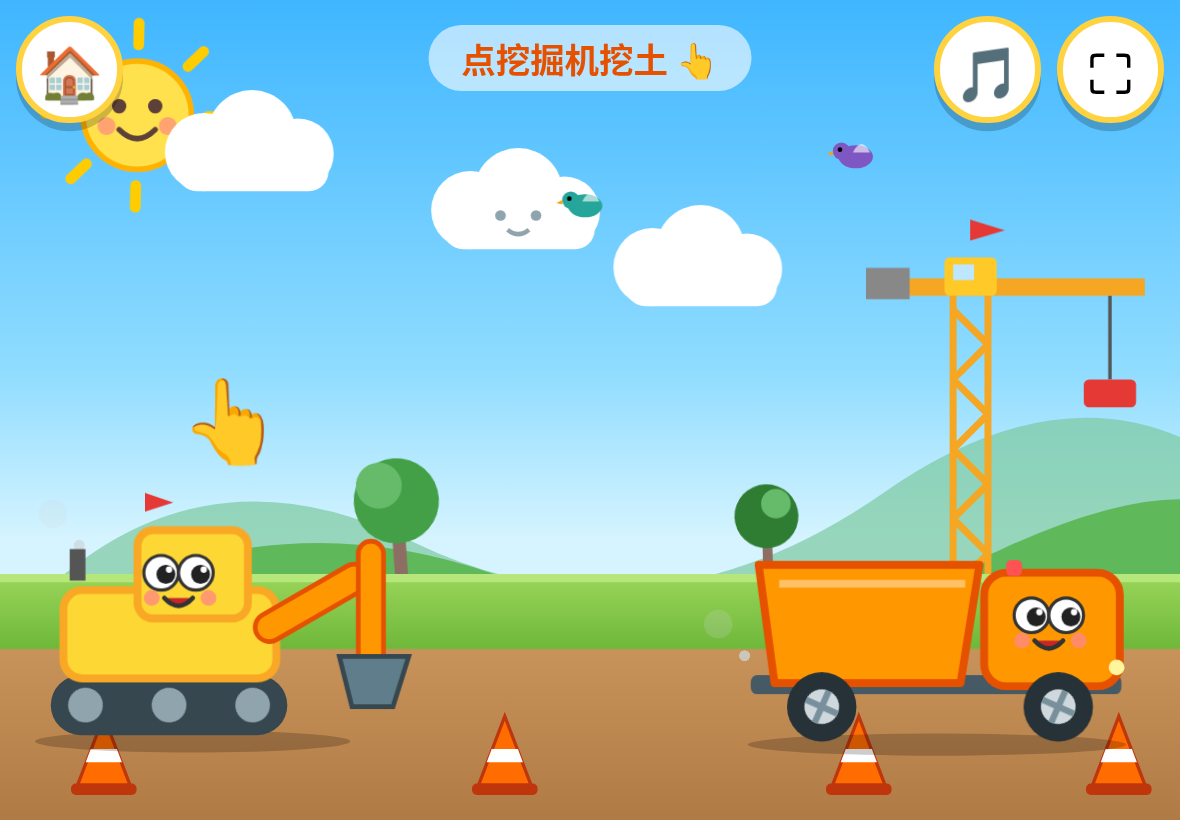
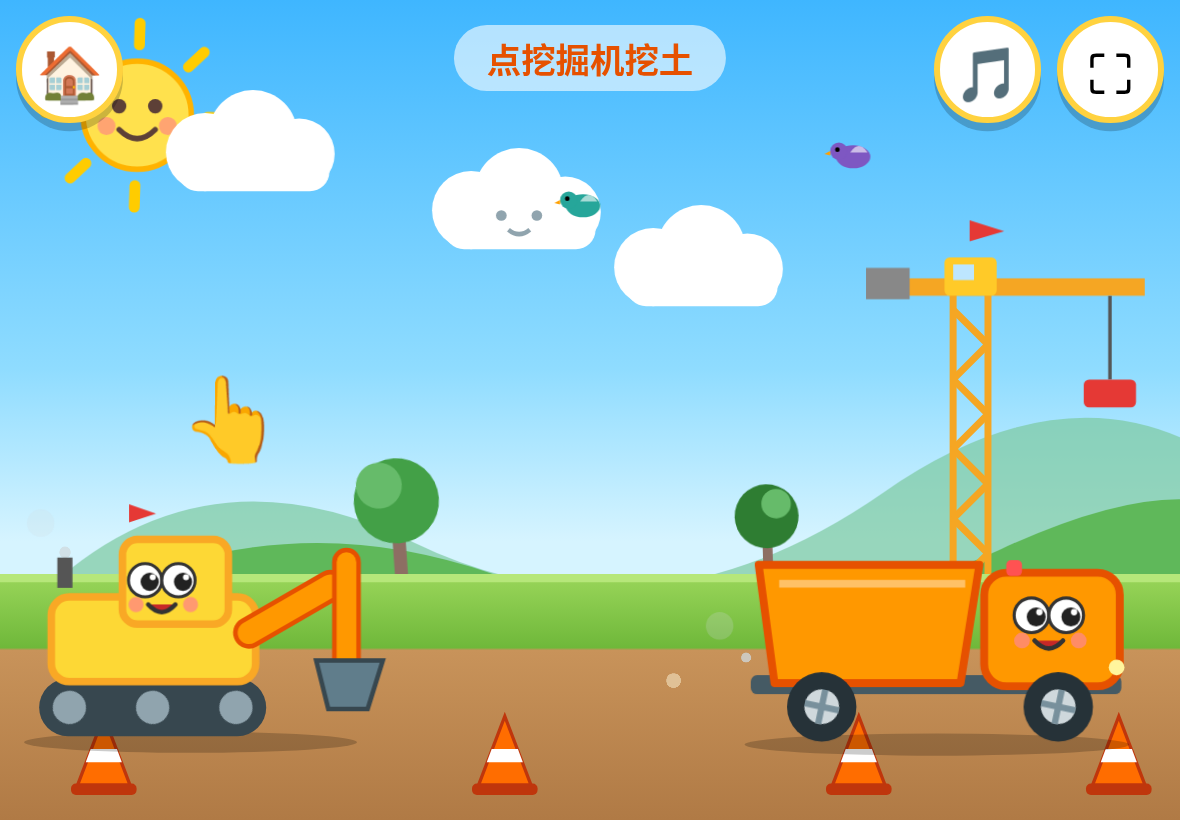
12 vehicles, voice guidance, praise, garage, difficulty ramp

diff --git a/index.html b/index.html
@@ -55,7 +55,7 @@ svg{overflow:visible}.tap{cursor:pointer;pointer-events:auto}
 .dance{animation:dance .5s ease-in-out infinite alternate}@keyframes dance{from{transform:translateY(0) rotate(-3deg)}to{transform:translateY(-2vmin) rotate(3deg)}}
 .hint{animation:hint 1s ease-in-out infinite}@keyframes hint{50%{transform:translateY(-2vmin) scale(1.05)}}
 /* game1 */
-#ex{position:absolute;left:3vw;bottom:8vh;width:50vmin}#dt{position:absolute;right:3vw;bottom:8vh;width:50vmin}
+#ex{position:absolute;left:2vw;bottom:8vh;width:48vmin}#dt{position:absolute;right:3vw;bottom:8vh;width:50vmin}
 #arm{transform-origin:150px 90px;transition:transform .35s}.dig #arm{transform:rotate(28deg)}
 #hand{position:absolute;font-size:10vmin;left:22vmin;bottom:42vh;animation:hint 1s infinite;pointer-events:none}
 /* game2 */
@@ -76,6 +76,23 @@ svg{overflow:visible}.tap{cursor:pointer;pointer-events:auto}
 #bigtruck{position:absolute;left:50%;top:50%;width:46vmin;margin:-20vmin 0 0 -23vmin;transform:scale(0);transition:transform .4s cubic-bezier(.3,1.6,.6,1)}
 #bigtruck.show{transform:scale(1)}#bigtruck svg{width:100%;animation:dance .3s ease-in-out infinite alternate}
 #stk{position:absolute;left:50%;top:18%;font-size:18vmin;transform:translate(-50%,-50%) scale(0);transition:transform .4s cubic-bezier(.3,1.6,.6,1)}#stk.show{transform:translate(-50%,-50%) scale(1) rotate(360deg)}
+
+.big{width:30vmin;height:30vmin}#btns{gap:3vmin}
+.big:nth-child(4){animation-delay:1.2s}
+#gar{position:absolute;top:13vh;left:3vw;right:3vw;bottom:2vh;display:grid;grid-template-columns:repeat(auto-fill,minmax(26vmin,1fr));gap:2.5vmin;overflow:hidden;pointer-events:auto}
+.vc{background:#fffd;border-radius:4vmin;border:.8vmin solid #ffd23f;box-shadow:0 1vmin 0 #0003;display:flex;align-items:center;justify-content:center;padding:1vmin}
+.vc svg{width:100%;height:100%;max-height:22vmin}.vc:active{transform:scale(.94)}
+.act{transform-box:view-box}
+.go .act{animation:var(--a) 1.2s ease-in-out}
+.go{animation:dance .3s ease-in-out 4 alternate}
+.drum{transform-box:fill-box;transform-origin:center;animation:spin 3s linear infinite}.go .drum{animation-duration:.4s}
+.spray{opacity:0}.go .spray{animation:spr 1.2s}@keyframes spr{20%,80%{opacity:1}}
+.siren{animation:blinkc .5s steps(1) infinite}@keyframes blinkc{50%{fill:#2196f3}}
+@keyframes tip{50%{transform:rotate(-32deg)}}@keyframes digA{50%{transform:rotate(28deg)}}@keyframes push{50%{transform:translateX(22px)}}
+@keyframes lift{50%{transform:rotate(-22deg)}}@keyframes up{50%{transform:translateY(-45px)}}@keyframes drill{50%{transform:translateY(28px)}}
+@keyframes scoop{50%{transform:rotate(-30deg)}}@keyframes rollA{50%{transform:translateX(18px)}}
+#nm{position:fixed;left:50%;bottom:4vh;transform:translateX(-50%) scale(0);background:#fff;border-radius:5vmin;padding:1.5vmin 5vmin;font-size:7vmin;font-weight:900;color:#e65100;z-index:35;transition:transform .3s cubic-bezier(.3,1.6,.6,1);pointer-events:none}#nm.show{transform:translateX(-50%) scale(1)}
+#rocks{width:46vw}.rock{width:15vmin;height:13vmin}
 </style></head><body>
 <div id="bg">
  <svg class="abs hill" style="opacity:.7;animation-duration:90s" viewBox="0 0 2200 300" preserveAspectRatio="none"><path d="M0 300 Q150 40 350 180 T750 120 T1100 160 T1450 60 T1800 170 T2200 120V300z" fill="#7cc9a0"/></svg>
@@ -99,75 +116,115 @@ svg{overflow:visible}.tap{cursor:pointer;pointer-events:auto}
 <div id="home" class="rb tap">🏠</div>
 <div id="topbar"><div id="mute" class="rb tap">🎵</div><div id="fs" class="rb tap">⛶</div></div>
 <div id="menu" class="scr on"><div id="drivers"></div><div id="title">🚧 宝宝工程车 🚧</div>
- <div id="btns"><div class="big" style="background:linear-gradient(#ffb74d,#f57c00)" data-g="g1"><svg viewBox="-10 -10 280 190" id="m1"></svg>挖土装车</div>
- <div class="big" style="background:linear-gradient(#64b5f6,#1e88e5)" data-g="g2"><svg viewBox="-10 -10 280 190" id="m2"></svg>颜色回家</div>
- <div class="big" style="background:linear-gradient(#81c784,#2e7d32)" data-g="g3"><svg viewBox="-10 -10 280 190" id="m3"></svg>数石头 1-3</div></div>
+ <div id="btns"><div class="big" style="background:linear-gradient(#ffb74d,#f57c00)" data-g="g1"><svg viewBox="-10 -10 290 190" id="m1"></svg>挖土装车</div>
+ <div class="big" style="background:linear-gradient(#64b5f6,#1e88e5)" data-g="g2"><svg viewBox="-10 -10 290 190" id="m2"></svg>颜色回家</div>
+ <div class="big" style="background:linear-gradient(#81c784,#2e7d32)" data-g="g3"><svg viewBox="-10 -10 290 190" id="m3"></svg>数石头</div>
+ <div class="big" style="background:linear-gradient(#f06292,#ad1457)" data-g="g4"><svg viewBox="-10 -70 290 250" id="m4"></svg>工程车车库</div></div>
  <div id="stickers"></div></div>
-<div id="g1" class="scr"><div class="lbl">点挖掘机挖土 👆</div><div id="hand">👆</div><svg id="ex" class="tap" viewBox="0 0 260 170"></svg><svg id="dt" viewBox="0 0 260 170"></svg></div>
+<div id="g1" class="scr"><div class="lbl">点挖掘机挖土</div><div id="hand">👆</div><svg id="ex" class="tap" viewBox="0 0 260 170"></svg><svg id="dt" viewBox="0 0 260 170"></svg></div>
 <div id="g2" class="scr"><div class="lbl">把车送回同色车库</div><div id="garages"></div><svg id="ctruck" class="hint tap" viewBox="0 0 260 170"></svg></div>
 <div id="g3" class="scr"><div class="lbl">把石头装上车</div><div id="num"></div><div id="rocks"></div><svg id="ctr" viewBox="0 0 260 170"></svg></div>
+<div id="g4" class="scr"><div class="lbl">点一点，认识工程车</div><div id="gar"></div></div>
+<div id="nm"></div>
 <div id="cel"><div id="bigtruck"></div><div id="stk"></div></div>
 <script>
-const $=s=>document.querySelector(s),R=Math.random;
-function shade(c){return {'#e53935':'#b71c1c','#fdd835':'#f9a825','#1e88e5':'#0d47a1','#43a047':'#1b5e20','#ff9800':'#e65100','#ab47bc':'#6a1b9a'}[c]||'#0005'}
+const $=s=>document.querySelector(s),R=Math.random,pick=a=>a[Math.floor(R()*a.length)];
+const DK={'#e53935':'#b71c1c','#fdd835':'#f9a825','#1e88e5':'#0d47a1','#43a047':'#1b5e20','#ff9800':'#e65100','#ab47bc':'#6a1b9a','#00acc1':'#006064','#d32f2f':'#7f0000'};const shade=c=>DK[c]||'#0005';
 function face(x,y){return `<g><circle cx="${x}" cy="${y}" r="11" fill="#fff" stroke="#333" stroke-width="2"/><circle cx="${x+22}" cy="${y}" r="11" fill="#fff" stroke="#333" stroke-width="2"/><g class="lid"><circle cx="${x+3}" cy="${y+1}" r="6" fill="#222"/><circle cx="${x+25}" cy="${y+1}" r="6" fill="#222"/><circle cx="${x+5}" cy="${y-2}" r="2" fill="#fff"/><circle cx="${x+27}" cy="${y-2}" r="2" fill="#fff"/></g><circle cx="${x-6}" cy="${y+16}" r="5" fill="#ff8a80" opacity=".8"/><circle cx="${x+30}" cy="${y+16}" r="5" fill="#ff8a80" opacity=".8"/><path d="M${x+2} ${y+16}q9 10 18 0" stroke="#333" stroke-width="3" fill="#c62828" stroke-linecap="round"/></g>`}
-function wheel(cx){return `<circle cx="${cx}" cy="140" r="22" fill="#263238"/><g class="wh"><circle cx="${cx}" cy="140" r="11" fill="#cfd8dc"/><rect x="${cx-2}" y="129" width="4" height="22" fill="#78909c"/><rect x="${cx-11}" y="138" width="22" height="4" fill="#78909c"/></g>`}
+function wheel(cx,r=22){return `<circle cx="${cx}" cy="140" r="${r}" fill="#263238"/><g class="wh"><circle cx="${cx}" cy="140" r="${r/2}" fill="#cfd8dc"/><rect x="${cx-2}" y="${140-r/2}" width="4" height="${r}" fill="#78909c"/><rect x="${cx-r/2}" y="138" width="${r}" height="4" fill="#78909c"/></g>`}
 const puff=(x,y)=>`<circle class="puff" cx="${x}" cy="${y}" r="7" fill="#cfd8dc"/><circle class="puff puff2" cx="${x}" cy="${y}" r="7" fill="#cfd8dc"/>`;
-function truck(c,load){return `<ellipse cx="128" cy="164" rx="120" ry="7" fill="#0003"/>${puff(8,110)}<rect x="10" y="120" width="235" height="12" rx="4" fill="#455a64"/><path d="M15 50h140l-12 75H25z" fill="${c}" stroke="${shade(c)}" stroke-width="5" stroke-linejoin="round"/><path d="M28 62h118" stroke="#fff6" stroke-width="5"/>${load||''}<rect x="158" y="55" width="86" height="72" rx="14" fill="${c}" stroke="${shade(c)}" stroke-width="5"/><rect x="172" y="47" width="10" height="10" rx="3" fill="#ff5252"/>${face(188,82)}<circle cx="242" cy="115" r="5" fill="#fff59d"/>${wheel(55)}${wheel(205)}`}
-function excav(){return `<ellipse cx="100" cy="162" rx="100" ry="7" fill="#0003"/><rect x="10" y="120" width="150" height="38" rx="19" fill="#37474f"/><g class="wh"><circle cx="32" cy="139" r="11" fill="#90a4ae"/></g><g class="wh"><circle cx="85" cy="139" r="11" fill="#90a4ae"/></g><g class="wh"><circle cx="138" cy="139" r="11" fill="#90a4ae"/></g>${puff(30,40)}<rect x="22" y="40" width="10" height="20" fill="#555"/><rect x="18" y="66" width="135" height="56" rx="12" fill="#fdd835" stroke="#f9a825" stroke-width="5"/><rect x="65" y="28" width="70" height="56" rx="10" fill="#fdd835" stroke="#f9a825" stroke-width="5"/>${face(80,55)}<polygon class="flag" points="70,28 70,4 88,10 70,16" fill="#e53935"/>
- <g id="arm"><rect x="140" y="80" width="80" height="18" rx="9" fill="#ff9800" stroke="#e65100" stroke-width="3" transform="rotate(-30 150 90)"/><rect x="205" y="35" width="16" height="80" rx="8" fill="#ff9800" stroke="#e65100" stroke-width="3"/><path d="M193 108h44l-10 32h-26z" fill="#607d8b" stroke="#37474f" stroke-width="3"/><ellipse id="scoop" cx="215" cy="108" rx="18" ry="8" fill="#8d5524" opacity="0"/></g>`}
-const rockSvg=`<svg class="rock tap hint" viewBox="0 0 100 80"><path d="M8 72L18 25 50 6 86 20 96 72z" fill="#a1887f" stroke="#6d4c41" stroke-width="5" stroke-linejoin="round"/><circle cx="40" cy="42" r="4" fill="#333"/><circle cx="62" cy="42" r="4" fill="#333"/><path d="M42 54q9 7 18 0" stroke="#333" stroke-width="3" fill="none"/></svg>`;
-/* ---------- audio ---------- */
+const track=(x,w)=>`<rect x="${x}" y="120" width="${w}" height="38" rx="19" fill="#37474f"/>${[0,1,2].map(i=>`<g class="wh"><circle cx="${x+20+i*(w-40)/2}" cy="139" r="11" fill="#90a4ae"/></g>`).join('')}`;
+const cab=(c,x=158,y=55)=>`<rect x="${x}" y="${y}" width="86" height="72" rx="14" fill="${c}" stroke="${shade(c)}" stroke-width="5"/><rect x="${x+14}" y="${y-8}" width="10" height="10" rx="3" fill="#ff5252"/>${face(x+30,y+27)}<circle cx="${x+84}" cy="${y+60}" r="5" fill="#fff59d"/>`;
+const base=(inner,c,opt={})=>`<ellipse cx="128" cy="164" rx="122" ry="7" fill="#0003"/>${puff(8,110)}${opt.tr?track(15,230):`<rect x="10" y="120" width="235" height="12" rx="4" fill="#455a64"/>`}${inner}${cab(c,opt.cx,opt.cy)}${opt.tr?'':wheel(55)+(opt.nofw?'':wheel(205))}`;
+const st=(c)=>`fill="${c}" stroke="${shade(c)}" stroke-width="5" stroke-linejoin="round"`;
+const V={
+dump:{n:'翻斗车',c:'#ff9800',a:'tip',d:(c,l='')=>base(`<g class="act" style="--a:tip;transform-origin:20px 120px"><path d="M15 50h140l-12 75H25z" ${st(c)}/><path d="M28 62h118" stroke="#fff6" stroke-width="5"/>${l}</g>`,c),s:()=>{tone(300,.5,'sawtooth',.08,0,150);tone(90,.4,'square',.1,.5)}},
+excavator:{n:'挖掘机',c:'#fdd835',d:c=>`<ellipse cx="110" cy="162" rx="110" ry="7" fill="#0003"/>${track(10,150)}${puff(30,40)}<rect x="22" y="40" width="10" height="20" fill="#555"/><rect x="18" y="66" width="135" height="56" rx="12" ${st(c)}/><rect x="65" y="28" width="70" height="56" rx="10" ${st(c)}/>${face(80,55)}<polygon class="flag" points="70,28 70,4 88,10 70,16" fill="#e53935"/><g id="arm" class="act" style="--a:digA;transform-origin:150px 90px"><rect x="140" y="80" width="80" height="18" rx="9" fill="#ff9800" stroke="#e65100" stroke-width="3" transform="rotate(-30 150 90)"/><rect x="205" y="35" width="16" height="80" rx="8" fill="#ff9800" stroke="#e65100" stroke-width="3"/><path d="M193 108h44l-10 32h-26z" fill="#607d8b" stroke="#37474f" stroke-width="3"/><ellipse id="scoop" cx="215" cy="108" rx="18" ry="8" fill="#8d5524" opacity="0"/></g>`,s:()=>{tone(120,.35,'sawtooth',.12,0,60);tone(80,.3,'square',.08,.2)}},
+mixer:{n:'搅拌车',c:'#1e88e5',d:c=>base(`<g class="drum"><ellipse cx="85" cy="80" rx="72" ry="42" fill="#eceff1" stroke="#90a4ae" stroke-width="5"/><path d="M30 60l30 50M65 42l40 76M105 42l30 60" stroke="${c}" stroke-width="10" stroke-linecap="round"/></g>`,c),s:()=>{for(let i=0;i<6;i++)tone(200+(i%2)*60,.15,'triangle',.12,i*.15)}},
+bulldozer:{n:'推土机',c:'#fdd835',d:c=>base(`<rect x="25" y="70" width="135" height="52" rx="10" ${st(c)}/><g class="act" style="--a:push"><rect x="246" y="62" width="22" height="80" rx="6" fill="#78909c" stroke="#37474f" stroke-width="4"/><rect x="236" y="100" width="14" height="10" fill="#37474f"/></g>`,c,{tr:1}),s:()=>{tone(90,.8,'sawtooth',.12,0,140);tone(60,.4,'square',.08,.3)}},
+crane:{n:'吊车',c:'#e53935',d:c=>base(`<rect x="15" y="85" width="145" height="40" rx="8" ${st(c)}/><g class="act" style="--a:lift;transform-origin:140px 80px"><rect x="-10" y="70" width="160" height="16" rx="6" fill="#fdd835" stroke="#f9a825" stroke-width="4" transform="rotate(25 140 80)"/><line x1="-5" y1="15" x2="-5" y2="60" stroke="#555" stroke-width="3"/><rect x="-18" y="60" width="26" height="22" rx="3" fill="#8d6e63"/></g>`,c),s:()=>{tone(300,1,'sine',.15,0,700);tone(1200,.1,'triangle',.1,1)}},
+roller:{n:'压路机',c:'#43a047',d:c=>`<ellipse cx="128" cy="164" rx="122" ry="7" fill="#0003"/>${puff(60,40)}<rect x="40" y="35" width="10" height="30" fill="#555"/><rect x="20" y="65" width="150" height="58" rx="12" ${st(c)}/>${wheel(60,24)}<g class="act" style="--a:rollA"><rect x="170" y="108" width="80" height="58" rx="29" fill="#78909c" stroke="#37474f" stroke-width="5"/><rect x="180" y="80" width="10" height="35" fill="#37474f"/></g>${cab(c,80,8)}`,s:()=>{for(let i=0;i<4;i++)tone(70,.2,'square',.15,i*.22)}},
+loader:{n:'装载机',c:'#ff9800',d:c=>base(`<rect x="20" y="75" width="140" height="50" rx="12" ${st(c)}/><g class="act" style="--a:scoop;transform-origin:200px 95px"><rect x="200" y="88" width="60" height="14" rx="6" fill="#455a64"/><path d="M245 80h35l-6 50h-34z" fill="#78909c" stroke="#37474f" stroke-width="4"/></g>`,c),s:()=>{tone(150,.3,'sawtooth',.12,0,300);tone(300,.3,'sawtooth',.1,.35,150)}},
+forklift:{n:'叉车',c:'#fdd835',d:c=>base(`<rect x="40" y="80" width="120" height="45" rx="10" ${st(c)}/><rect x="252" y="20" width="8" height="125" fill="#455a64"/><g class="act" style="--a:up"><rect x="258" y="130" width="40" height="7" fill="#37474f"/><rect x="262" y="96" width="34" height="34" fill="#d7a35e" stroke="#8d6e63" stroke-width="3"/><path d="M262 113h34M279 96v34" stroke="#8d6e63" stroke-width="2"/></g>`,c),s:()=>{tone(400,.6,'square',.06,0,900);tone(900,.1,'triangle',.15,.7)}},
+drill:{n:'打桩机',c:'#ab47bc',d:c=>base(`<rect x="20" y="80" width="140" height="45" rx="10" ${st(c)}/><rect x="85" y="-50" width="16" height="135" fill="#fdd835" stroke="#f9a825" stroke-width="3"/><g class="act" style="--a:drill"><path d="M93 60l-14 0 14 80 14-80z" fill="#90a4ae" stroke="#37474f" stroke-width="3"/><path d="M82 75l22 8M84 95l18 8M87 115l13 6" stroke="#37474f" stroke-width="3"/></g>`,c),s:()=>{for(let i=0;i<8;i++)tone(180,.08,'square',.12,i*.1,90)}},
+water:{n:'洒水车',c:'#00acc1',d:c=>base(`<rect x="15" y="55" width="140" height="68" rx="34" ${st(c)}/><path d="M40 70q30-10 90 0" stroke="#fff8" stroke-width="6" fill="none"/><g class="spray">${[0,1,2,3,4].map(i=>`<circle cx="${-5-i*8}" cy="${100+(i%2)*14-i*3}" r="5" fill="#4fc3f7"/>`).join('')}<path d="M10 105q-30-10-50 10M10 112q-30 5-45 25" stroke="#4fc3f7" stroke-width="5" fill="none"/></g>`,c),s:()=>{for(let i=0;i<10;i++)tone(800+R()*900,.06,'sine',.08,i*.07)}},
+tow:{n:'拖车',c:'#43a047',d:c=>base(`<rect x="30" y="85" width="130" height="40" rx="8" ${st(c)}/><g class="act" style="--a:lift;transform-origin:140px 85px"><rect x="20" y="78" width="125" height="12" rx="5" fill="#78909c" transform="rotate(20 140 85)"/><path d="M25 50v40q0 12-10 10" stroke="#555" stroke-width="5" fill="none"/></g>`,c),s:()=>{tone(500,.2,'square',.08);tone(350,.4,'square',.08,.25)}},
+fire:{n:'消防车',c:'#d32f2f',d:c=>base(`<rect x="15" y="65" width="140" height="58" rx="10" ${st(c)}/><path d="M30 80h110M30 100h110" stroke="#fff8" stroke-width="5"/><g class="act" style="--a:lift;transform-origin:150px 60px"><rect x="10" y="52" width="145" height="12" fill="#cfd8dc" stroke="#78909c" stroke-width="3"/><path d="M25 52v12M45 52v12M65 52v12M85 52v12M105 52v12M125 52v12" stroke="#78909c" stroke-width="3"/></g><circle class="siren" cx="210" cy="45" r="8" fill="#ff1744"/>`,c,{cy:58}),s:()=>{for(let i=0;i<4;i++){tone(700,.25,'square',.06,i*.5);tone(950,.25,'square',.06,i*.5+.25)}}}
+};
+const TYPES=Object.keys(V);
+function veh(t,c,l){return V[t].d(c||V[t].c,l)}
+function truck(c,l){return veh('dump',c,l)}
+/* ---------- audio + voice ---------- */
 let AC,master,muted=false,mus=null;
 function ac(){if(!AC){AC=new (window.AudioContext||window.webkitAudioContext)();master=AC.createGain();master.connect(AC.destination);startMusic()}if(AC.state=='suspended')AC.resume();return AC}
 function tone(f,d,t='square',v=.15,w=0,f2){const a=ac(),o=a.createOscillator(),g=a.createGain(),s=a.currentTime+w;o.type=t;o.frequency.setValueAtTime(f,s);if(f2)o.frequency.exponentialRampToValueAtTime(f2,s+d);g.gain.setValueAtTime(v,s);g.gain.exponentialRampToValueAtTime(.001,s+d);o.connect(g).connect(master);o.start(s);o.stop(s+d+.05)}
+function applause(){const a=ac(),len=a.sampleRate*1.4,b=a.createBuffer(1,len,a.sampleRate),d=b.getChannelData(0);for(let i=0;i<len;i++){const ph=(i/a.sampleRate*14)%1;d[i]=(R()*2-1)*(ph<.25?1:.15)*(1-i/len)}const s=a.createBufferSource(),f=a.createBiquadFilter(),g=a.createGain();f.type='bandpass';f.frequency.value=1800;g.gain.value=.35;s.buffer=b;s.connect(f).connect(g).connect(master);s.start()}
+let zhV=null;function loadV(){const vs=speechSynthesis.getVoices();zhV=vs.find(v=>/zh[-_]CN/i.test(v.lang))||vs.find(v=>/^zh/i.test(v.lang))||null}if(window.speechSynthesis){loadV();speechSynthesis.onvoiceschanged=loadV}
+function say(t,delay=0){if(!window.speechSynthesis)return;setTimeout(()=>{try{speechSynthesis.cancel();const u=new SpeechSynthesisUtterance(t);u.lang='zh-CN';if(zhV)u.voice=zhV;u.rate=.9;u.pitch=1.25;u.volume=1;speechSynthesis.speak(u)}catch(e){}},delay)}
+const PRAISE=['真棒！','太厉害了！','宝宝好聪明！','答对啦！','哇，你真行！','给你点个赞！','好厉害呀！','做得真好！'];
+const praise=()=>{say(pick(PRAISE));chime();setTimeout(applause,200)};
+const chime=()=>[523,659,784,1047].forEach((f,i)=>tone(f,.3,'triangle',.18,i*.1));
+let lastQ='';function ask(q,d=0){lastQ=q;say(q,d)}
+function hint(){tone(660,.2,'sine',.1);tone(880,.25,'sine',.1,.15);say('再试试看～'+lastQ)}
 const horn=()=>{tone(392,.3,'sawtooth',.1);tone(330,.5,'sawtooth',.1,.35)},pop=(n=0)=>tone(500+n*120,.15,'triangle',.25),
-dig=()=>{tone(120,.35,'sawtooth',.12,0,60);tone(80,.3,'square',.08,.15)},cheer=()=>[523,659,784,1047,784,1047].forEach((f,i)=>tone(f,.25,'triangle',.2,i*.11)),
 boing=()=>tone(200,.4,'sine',.3,0,700),tweet=()=>{tone(2000,.08,'sine',.15,0,2600);tone(2200,.08,'sine',.15,.12,3000)},slide=()=>tone(900,.4,'sine',.2,0,250),bang=()=>tone(150,.3,'triangle',.25,0,60);
 const MEL=[523,587,659,784,659,587,523,0,659,784,880,784,659,587,523,0,392,440,523,587,659,587,523,0,784,659,587,523,587,523,0,0],BASS=[131,0,196,0,175,0,196,0];
-function startMusic(){let i=0;const mg=AC.createGain();mg.gain.value=.5;mg.connect(master);mus=mg;setInterval(()=>{if(muted||document.hidden)return;const n=MEL[i%MEL.length],t=AC.currentTime;if(n){const o=AC.createOscillator(),g=AC.createGain();o.type='triangle';o.frequency.value=n;g.gain.setValueAtTime(.06,t);g.gain.exponentialRampToValueAtTime(.001,t+.3);o.connect(g).connect(mg);o.start(t);o.stop(t+.35)}if(i%4==0&&BASS[(i/4)%8]){const o=AC.createOscillator(),g=AC.createGain();o.type='sine';o.frequency.value=BASS[(i/4)%8];g.gain.setValueAtTime(.08,t);g.gain.exponentialRampToValueAtTime(.001,t+.6);o.connect(g).connect(mg);o.start(t);o.stop(t+.65)}i++},280)}
-$('#mute').onpointerdown=()=>{ac();muted=!muted;$('#mute').textContent=muted?'🔇':'🎵';mus.gain.value=muted?0:.5};
-/* ---------- background build + surprises ---------- */
+function startMusic(){let i=0;const mg=AC.createGain();mg.gain.value=.35;mg.connect(master);mus=mg;setInterval(()=>{if(muted||document.hidden)return;const n=MEL[i%MEL.length],t=AC.currentTime;if(n){const o=AC.createOscillator(),g=AC.createGain();o.type='triangle';o.frequency.value=n;g.gain.setValueAtTime(.05,t);g.gain.exponentialRampToValueAtTime(.001,t+.3);o.connect(g).connect(mg);o.start(t);o.stop(t+.35)}if(i%4==0&&BASS[(i/4)%8]){const o=AC.createOscillator(),g=AC.createGain();o.type='sine';o.frequency.value=BASS[(i/4)%8];g.gain.setValueAtTime(.07,t);g.gain.exponentialRampToValueAtTime(.001,t+.6);o.connect(g).connect(mg);o.start(t);o.stop(t+.65)}i++},300)}
+$('#mute').onpointerdown=()=>{ac();muted=!muted;$('#mute').textContent=muted?'🔇':'🎵';mus.gain.value=muted?0:.35};
+/* ---------- background ---------- */
 function anim(el,c,ms=700){el.classList.remove(c);void el.getBoundingClientRect();el.classList.add(c);setTimeout(()=>el.classList.remove(c),ms)}
 $('#clouds').innerHTML=[0,1,2,3].map(i=>`<div class="abs cloud" style="top:${4+i*7}vh;animation-duration:${40+i*12}s;animation-delay:${-i*14}s"><svg class="tap" viewBox="0 0 120 60"><g fill="#fff"><circle cx="35" cy="35" r="22"/><circle cx="62" cy="25" r="25"/><circle cx="88" cy="36" r="20"/><rect x="20" y="35" width="85" height="22" rx="11"/></g>${i%2?'':'<circle cx="52" cy="38" r="3" fill="#90a4ae"/><circle cx="72" cy="38" r="3" fill="#90a4ae"/><path d="M56 46q6 5 12 0" stroke="#90a4ae" stroke-width="2.5" fill="none"/>'}</svg></div>`).join('');
 $('#birds').innerHTML=[0,1,2].map(i=>`<div class="abs bird" style="top:${10+i*6}vh;animation-duration:${14+i*5}s;animation-delay:${-i*6}s"><svg class="tap" viewBox="0 0 40 30"><ellipse cx="20" cy="18" rx="12" ry="8" fill="${['#ef5350','#7e57c2','#26a69a'][i]}"/><circle cx="10" cy="14" r="6" fill="${['#ef5350','#7e57c2','#26a69a'][i]}"/><circle cx="9" cy="13" r="1.6" fill="#000"/><path d="M4 14l-4 2 4 1z" fill="#ffa000"/><path class="wing" d="M18 15q6-14 12 0z" fill="#fff9"/></svg></div>`).join('');
 $('#cones').innerHTML=[6,40,70,92].map(x=>`<svg class="abs cone tap" style="left:${x}vw" viewBox="0 0 40 50"><path d="M20 2L36 44H4z" fill="#ff6d00" stroke="#bf360c" stroke-width="2"/><path d="M12 22h16l3 8H9z" fill="#fff"/><rect x="0" y="43" width="40" height="7" rx="3" fill="#bf360c"/></svg>`).join('');
-$('#sun').onpointerdown=e=>{ac();boing();anim($('#sun'),'spinme',800)};
-document.querySelectorAll('.cloud svg').forEach(c=>c.onpointerdown=()=>{ac();slide();c.style.transform='scale(1.4,.7)';setTimeout(()=>c.style.transform='',300)});
-document.querySelectorAll('.bird svg').forEach(b=>b.onpointerdown=()=>{ac();tweet();anim(b,'jump',700)});
-document.querySelectorAll('.cone').forEach(c=>c.onpointerdown=()=>{ac();bang();anim(c,'jump',700)});
+$('#sun').onpointerdown=()=>{ac();boing();say('太阳公公');anim($('#sun'),'spinme',800)};
+document.querySelectorAll('.cloud svg').forEach(c=>c.onpointerdown=()=>{ac();slide();say('白云');c.style.transform='scale(1.4,.7)';setTimeout(()=>c.style.transform='',300)});
+document.querySelectorAll('.bird svg').forEach(b=>b.onpointerdown=()=>{ac();tweet();say('小鸟，叽叽喳');anim(b,'jump',700)});
+document.querySelectorAll('.cone').forEach(c=>c.onpointerdown=()=>{ac();bang();say('路锥');anim(c,'jump',700)});
 /* ---------- menu ---------- */
-$('#m1').innerHTML=excav();$('#m2').innerHTML=truck('#e53935');$('#m3').innerHTML=truck('#43a047','<circle cx="60" cy="45" r="15" fill="#a1887f"/><circle cx="100" cy="45" r="15" fill="#a1887f"/>');
-$('#drivers').innerHTML=[['#fdd835',72,9,0,''],['#1e88e5',84,13,-5,'rev'],['#ab47bc',62,11,-3,'']].map(([c,b,d,dl,r])=>`<svg class="drv ${r}" style="top:${b}vh;animation-duration:${d}s;animation-delay:${dl}s" viewBox="0 0 260 170">${truck(c)}</svg>`).join('');
-const STK=['🚜','🚧','⭐','🏗','🚛','🌈','🎈','🦺','🏆','🌟','🚚','🎉'];let stickers=JSON.parse(localStorage.getItem('tt_st')||'[]');
+$('#m1').innerHTML=veh('excavator');$('#m2').innerHTML=veh('mixer','#e53935');$('#m3').innerHTML=veh('loader');$('#m4').innerHTML=veh('crane');
+function drivers(){$('#drivers').innerHTML=[[72,9,0,''],[84,13,-5,'rev'],[62,11,-3,'']].map(([b,d,dl,r])=>`<svg class="drv ${r}" style="top:${b}vh;animation-duration:${d}s;animation-delay:${dl}s" viewBox="-20 -60 300 230">${veh(pick(TYPES))}</svg>`).join('')}drivers();
+const STK=['🚜','🚧','⭐','🏗','🚛','🌈','🎈','🦺','🏆','🌟','🚚','🎉','🚒'];let stickers=[];try{stickers=JSON.parse(localStorage.getItem('tt_st')||'[]')}catch(e){}
 function drawSt(){$('#stickers').innerHTML=stickers.slice(-24).map(s=>`<span>${s}</span>`).join('')}drawSt();
-let cur;function show(id){document.querySelectorAll('.scr').forEach(s=>s.classList.remove('on'));$('#'+id).classList.add('on');$('#home').style.display=id=='menu'?'none':'flex';cur=id;({g1:s1,g2:s2,g3:s3}[id]||drawSt)()}
+let cur;const NAMES={g1:'挖土装车',g2:'颜色回家',g3:'数石头',g4:'工程车车库'};
+function show(id){document.querySelectorAll('.scr').forEach(s=>s.classList.remove('on'));$('#'+id).classList.add('on');$('#home').style.display=id=='menu'?'none':'flex';cur=id;if(id=='menu'){drawSt();drivers();ask('选一个游戏吧')}else({g1:s1,g2:s2,g3:s3,g4:s4})[id]()}
 document.querySelectorAll('.big').forEach(b=>b.addEventListener('pointerdown',()=>{ac();pop();show(b.dataset.g)}));
 $('#home').onpointerdown=()=>{pop();show('menu')};
 $('#fs').onpointerdown=()=>{ac();const d=document.documentElement,f=d.requestFullscreen||d.webkitRequestFullscreen;if(document.fullscreenElement||document.webkitFullscreenElement)(document.exitFullscreen||document.webkitExitFullscreen).call(document);else if(f)f.call(d)};
+function act(svg,t){anim(svg,'go',1300);V[t].s()}
 /* ---------- celebration ---------- */
 const CS=['#e53935','#fdd835','#1e88e5','#43a047','#ab47bc','#ff9800'];
-function celebrate(next,color){const cel=$('#cel');cheer();setTimeout(horn,600);
- for(let i=0;i<40;i++){const d=document.createElement('div');d.className='conf';d.style.left=R()*100+'vw';d.style.background=CS[i%6];d.style.animationDelay=R()*.6+'s';cel.appendChild(d);setTimeout(()=>d.remove(),2800)}
- for(let k=0;k<3;k++)setTimeout(()=>{const x=15+R()*70,y=15+R()*35;tone(300+R()*400,.3,'sine',.1,0,80);for(let i=0;i<16;i++){const s=document.createElement('div'),a=i/16*6.283;s.className='spark';s.style.left=x+'vw';s.style.top=y+'vh';s.style.background=CS[(i+k)%6];s.style.setProperty('--x',Math.cos(a)*18+'vmin');s.style.setProperty('--y',Math.sin(a)*18+'vmin');cel.appendChild(s);setTimeout(()=>s.remove(),1200)}},k*400);
+function celebrate(next,t){const cel=$('#cel');praise();setTimeout(horn,900);
+ for(let i=0;i<36;i++){const d=document.createElement('div');d.className='conf';d.style.left=R()*100+'vw';d.style.background=CS[i%6];d.style.animationDelay=R()*.6+'s';cel.appendChild(d);setTimeout(()=>d.remove(),2800)}
+ for(let k=0;k<3;k++)setTimeout(()=>{const x=15+R()*70,y=15+R()*35;for(let i=0;i<14;i++){const s=document.createElement('div'),a=i/14*6.283;s.className='spark';s.style.left=x+'vw';s.style.top=y+'vh';s.style.background=CS[(i+k)%6];s.style.setProperty('--x',Math.cos(a)*18+'vmin');s.style.setProperty('--y',Math.sin(a)*18+'vmin');cel.appendChild(s);setTimeout(()=>s.remove(),1200)}},k*400);
  for(let i=0;i<5;i++){const b=document.createElement('div');b.className='bal';b.style.left=5+i*19+'vw';b.style.animationDelay=i*.15+'s';b.innerHTML=`<svg viewBox="0 0 40 70"><ellipse cx="20" cy="20" rx="17" ry="20" fill="${CS[i]}"/><ellipse cx="13" cy="13" rx="4" ry="6" fill="#fff8"/><path d="M20 40q-5 15 3 30" stroke="#555" fill="none"/></svg>`;cel.appendChild(b);setTimeout(()=>b.remove(),3400)}
- const bt=$('#bigtruck');bt.innerHTML=`<svg viewBox="0 0 260 170">${truck(color||CS[Math.floor(R()*6)])}</svg>`;bt.classList.add('show');
- const s=STK[Math.floor(R()*STK.length)];$('#stk').textContent=s;$('#stk').classList.add('show');stickers.push(s);try{localStorage.setItem('tt_st',JSON.stringify(stickers.slice(-60)))}catch(e){}
- setTimeout(()=>{bt.classList.remove('show');$('#stk').classList.remove('show')},2300);setTimeout(next,2800)}
-/* ---------- game 1 ---------- */
-let fill=0,busy=false;$('#ex').innerHTML=excav();
-function s1(){fill=0;busy=false;const dt=$('#dt');dt.style.transition='none';dt.style.transform='translateX(110vw)';drawDT();requestAnimationFrame(()=>requestAnimationFrame(()=>{dt.style.transition='transform 1.2s ease-out';dt.style.transform='translateX(0)'}));$('#hand').style.display='block'}
+ const bt=$('#bigtruck');t=t||pick(TYPES);bt.innerHTML=`<svg viewBox="-20 -60 300 230">${veh(t)}</svg>`;bt.classList.add('show');
+ const s=pick(STK);$('#stk').textContent=s;$('#stk').classList.add('show');stickers.push(s);try{localStorage.setItem('tt_st',JSON.stringify(stickers.slice(-60)))}catch(e){}
+ setTimeout(()=>{bt.classList.remove('show');$('#stk').classList.remove('show')},2300);setTimeout(next,2700)}
+/* ---------- game 1: dig (excavator or loader) ---------- */
+let fill=0,busy=false,dig='excavator',w1=0;
+function s1(){fill=0;busy=false;dig=w1%2?'loader':'excavator';$('#ex').innerHTML=veh(dig);$('#ex').setAttribute('viewBox',dig=='loader'?'0 0 300 170':'0 0 260 170');const dt=$('#dt');dt.style.transition='none';dt.style.transform='translateX(110vw)';drawDT();requestAnimationFrame(()=>requestAnimationFrame(()=>{dt.style.transition='transform 1.2s ease-out';dt.style.transform='translateX(0)'}));$('#hand').style.display='block';ask('点一点'+V[dig].n+'，装满翻斗车')}
 function drawDT(){let l='';for(let i=0;i<fill;i++)l+=`<ellipse cx="${55+i*32}" cy="${52-i*5}" rx="${32+i*8}" ry="${13+i*6}" fill="#8d5524" stroke="#5d3a1a" stroke-width="3"/>`;$('#dt').innerHTML=truck('#ff9800',l)}
-$('#ex').addEventListener('pointerdown',()=>{if(busy)return;busy=true;$('#hand').style.display='none';dig();const e=$('#ex');e.classList.add('dig');$('#scoop').setAttribute('opacity',1);setTimeout(()=>{e.classList.remove('dig');setTimeout(()=>{$('#scoop').setAttribute('opacity',0);fill++;pop(fill);drawDT();anim($('#dt'),'boing',600);if(fill>=3){setTimeout(()=>{horn();const dt=$('#dt');dt.style.transition='transform 1.6s ease-in';dt.style.transform='translateX(110vw)';tone(90,1.5,'sawtooth',.08);celebrate(()=>{if(cur=='g1')s1()},'#ff9800')},400)}else busy=false},350)},350)});
-/* ---------- game 2 ---------- */
-const COLS=['#e53935','#fdd835','#1e88e5','#43a047'];let tc,last=-1,g2busy=false;
-function s2(){g2busy=false;$('#garages').innerHTML=COLS.map((c,i)=>`<svg class="gar tap" data-i="${i}" viewBox="0 0 100 110"><path d="M5 42L50 5l45 37v63H5z" fill="${c}" stroke="#fff" stroke-width="5" stroke-linejoin="round"/><rect x="20" y="52" width="60" height="53" rx="4" fill="#37474f"/><path d="M20 62h60M20 72h60M20 82h60M20 92h60" stroke="#546e7a" stroke-width="3"/><circle cx="50" cy="30" r="8" fill="#fff"/></svg>`).join('');do tc=Math.floor(R()*4);while(tc==last);last=tc;const t=$('#ctruck');t.style.transition='none';t.style.transform='';t.innerHTML=truck(COLS[tc]);t.classList.add('hint');document.querySelectorAll('.gar').forEach(g=>g.onpointerdown=()=>{ac();if(+g.dataset.i==tc)go(g);else{tone(220,.2,'sine',.15);g.animate([{transform:'translateX(0)'},{transform:'translateX(2vmin)'},{transform:'translateX(-2vmin)'},{transform:'translateX(0)'}],300)}})}
-function go(g){if(g2busy)return;g2busy=true;const t=$('#ctruck'),r=g.getBoundingClientRect();t.classList.remove('hint');t.style.transition='none';t.style.transform='';const q=t.getBoundingClientRect();void q.width;t.style.transition='transform .8s';t.style.transform=`translate(${r.left+r.width/2-q.left-q.width/2}px,${r.top+r.height/2-q.top-q.height/2}px) scale(.45)`;anim(g,'boing',600);celebrate(()=>{if(cur=='g2')s2()},COLS[tc])}
-(()=>{const t=$('#ctruck');let sx,sy,drag=false;t.addEventListener('pointerdown',e=>{if(g2busy)return;ac();pop();drag=true;sx=e.clientX;sy=e.clientY;t.classList.remove('hint');t.style.transition='none';try{t.setPointerCapture(e.pointerId)}catch(_){}});t.addEventListener('pointermove',e=>{if(drag)t.style.transform=`translate(${e.clientX-sx}px,${e.clientY-sy}px) rotate(${(e.clientX-sx)/40}deg)`});t.addEventListener('pointerup',e=>{if(!drag)return;drag=false;const g=[...document.querySelectorAll('.gar')].find(g=>{const r=g.getBoundingClientRect();return e.clientX>r.left-50&&e.clientX<r.right+50&&e.clientY>r.top-50&&e.clientY<r.bottom+80});if(g&&+g.dataset.i==tc)go(g);else{t.style.transition='transform .4s';t.style.transform='';t.classList.add('hint')}})})();
-/* ---------- game 3 ---------- */
-let need,have;function s3(){need=1+Math.floor(R()*3);have=0;$('#num').innerHTML='<div class="dot"></div>'.repeat(need);$('#rocks').innerHTML=rockSvg.repeat(need);drawCT();document.querySelectorAll('.rock').forEach(r=>r.onpointerdown=()=>{if(r.dataset.u)return;ac();r.dataset.u=1;r.style.visibility='hidden';have++;for(let i=0;i<have;i++)tone(600+i*150,.12,'triangle',.2,i*.18);const d=$('#num').children[have-1];d.classList.add('f');d.textContent=have;drawCT();anim($('#ctr'),'boing',600);if(have==need)setTimeout(()=>celebrate(()=>{if(cur=='g3')s3()},'#43a047'),400)})}
-function drawCT(){let l='';for(let i=0;i<have;i++)l+=`<path d="M${28+i*40} 52l8-24 22-9 20 11 4 22z" fill="#a1887f" stroke="#6d4c41" stroke-width="3"/>`;$('#ctr').innerHTML=truck('#43a047',l)}
+$('#ex').addEventListener('pointerdown',()=>{if(busy)return;busy=true;ac();$('#hand').style.display='none';act($('#ex'),dig);setTimeout(()=>{fill++;pop(fill);say(['一','二','三'][fill-1]);drawDT();anim($('#dt'),'boing',600);if(fill>=3){setTimeout(()=>{w1++;horn();say('装满啦！翻斗车出发！');const dt=$('#dt');dt.style.transition='transform 1.6s ease-in';dt.style.transform='translateX(110vw)';setTimeout(()=>celebrate(()=>{if(cur=='g1')s1()},'dump'),1300)},600)}else busy=false},700)});
+/* ---------- game 2: colors, 2 -> 3 -> 4 choices ---------- */
+const COLS=['#e53935','#fdd835','#1e88e5','#43a047'],CN=['红色','黄色','蓝色','绿色'];let tc,g2busy=false,w2=0,shown=[];
+function s2(){g2busy=false;const n=Math.min(4,2+Math.floor(w2/3));shown=[0,1,2,3].sort(()=>R()-.5).slice(0,n);tc=pick(shown);const vt=pick(TYPES.filter(t=>t!='fire'));
+ $('#garages').innerHTML=shown.map(i=>`<svg class="gar tap" data-i="${i}" viewBox="0 0 100 110"><path d="M5 42L50 5l45 37v63H5z" fill="${COLS[i]}" stroke="#fff" stroke-width="5" stroke-linejoin="round"/><rect x="20" y="52" width="60" height="53" rx="4" fill="#37474f"/><path d="M20 62h60M20 72h60M20 82h60M20 92h60" stroke="#546e7a" stroke-width="3"/><circle cx="50" cy="30" r="8" fill="#fff"/></svg>`).join('');
+ const t=$('#ctruck');t.setAttribute('viewBox','-20 -60 300 230');t.style.transition='none';t.style.transform='';t.innerHTML=veh(vt,COLS[tc]);t.dataset.t=vt;t.classList.add('hint');
+ ask(CN[tc]+'的'+V[vt].n+'，开回'+CN[tc]+'的家');
+ document.querySelectorAll('.gar').forEach(g=>g.onpointerdown=()=>{ac();if(+g.dataset.i==tc)go(g);else{hint();g.animate([{transform:'rotate(0)'},{transform:'rotate(4deg)'},{transform:'rotate(-4deg)'},{transform:'rotate(0)'}],400)}})}
+function go(g){if(g2busy)return;g2busy=true;w2++;const t=$('#ctruck'),r=g.getBoundingClientRect();t.classList.remove('hint');t.style.transition='none';t.style.transform='';const q=t.getBoundingClientRect();t.style.transition='transform .8s';t.style.transform=`translate(${r.left+r.width/2-q.left-q.width/2}px,${r.top+r.height/2-q.top-q.height/2}px) scale(.4)`;anim(g,'boing',600);celebrate(()=>{if(cur=='g2')s2()},t.dataset.t)}
+(()=>{const t=$('#ctruck');let sx,sy,drag=false;t.addEventListener('pointerdown',e=>{if(g2busy)return;ac();pop();drag=true;sx=e.clientX;sy=e.clientY;t.classList.remove('hint');t.style.transition='none';try{t.setPointerCapture(e.pointerId)}catch(_){}});t.addEventListener('pointermove',e=>{if(drag)t.style.transform=`translate(${e.clientX-sx}px,${e.clientY-sy}px) rotate(${(e.clientX-sx)/40}deg)`});t.addEventListener('pointerup',e=>{if(!drag)return;drag=false;const g=[...document.querySelectorAll('.gar')].find(g=>{const r=g.getBoundingClientRect();return e.clientX>r.left-50&&e.clientX<r.right+50&&e.clientY>r.top-50&&e.clientY<r.bottom+80});t.style.transition='transform .4s';t.style.transform='';t.classList.add('hint');if(g){if(+g.dataset.i==tc)go(g);else hint()}else if(Math.abs(e.clientX-sx)+Math.abs(e.clientY-sy)>30)hint();else ask(lastQ)})})();
+/* ---------- game 3: count 1-3, later up to 5 ---------- */
+const NUM=['一','二','三','四','五'];let need,have,w3=0,ct;
+const rockSvg=`<svg class="rock tap hint" viewBox="0 0 100 80"><path d="M8 72L18 25 50 6 86 20 96 72z" fill="#a1887f" stroke="#6d4c41" stroke-width="5" stroke-linejoin="round"/><circle cx="40" cy="42" r="4" fill="#333"/><circle cx="62" cy="42" r="4" fill="#333"/><path d="M42 54q9 7 18 0" stroke="#333" stroke-width="3" fill="none"/></svg>`;
+function s3(){const mx=w3<6?3:5;need=1+Math.floor(R()*mx);have=0;ct=pick(['dump','loader','tow','forklift','mixer']);ct=ct=='dump'||ct=='loader'?ct:'dump';$('#num').innerHTML='<div class="dot"></div>'.repeat(need);$('#rocks').innerHTML=rockSvg.repeat(need);drawCT();ask('装'+(need==2?'两':NUM[need-1])+'块石头');
+ document.querySelectorAll('.rock').forEach(r=>r.onpointerdown=()=>{if(r.dataset.u)return;ac();r.dataset.u=1;r.style.visibility='hidden';have++;pop(have);say(NUM[have-1]);const d=$('#num').children[have-1];d.classList.add('f');d.textContent=have;drawCT();anim($('#ctr'),'boing',600);if(have==need){w3++;setTimeout(()=>celebrate(()=>{if(cur=='g3')s3()},'dump'),700)}})}
+function drawCT(){let l='';for(let i=0;i<have;i++)l+=`<path d="M${22+(i%3)*42} ${52-Math.floor(i/3)*20}l8-24 22-9 20 11 4 22z" fill="#a1887f" stroke="#6d4c41" stroke-width="3"/>`;$('#ctr').innerHTML=truck('#43a047',l)}
+/* ---------- game 4: vehicle garage ---------- */
+function s4(){$('#gar').innerHTML=TYPES.map(t=>`<div class="vc tap" data-t="${t}"><svg viewBox="-25 -60 310 235">${veh(t)}</svg></div>`).join('');ask('点一点，认识工程车');
+ document.querySelectorAll('.vc').forEach(c=>c.onpointerdown=()=>{ac();const t=c.dataset.t;act(c.querySelector('svg'),t);say(V[t].n,150);const nm=$('#nm');nm.textContent=V[t].n;nm.classList.add('show');clearTimeout(nm._t);nm._t=setTimeout(()=>nm.classList.remove('show'),1600)})}
 /* ---------- no zoom / menus ---------- */
 ['contextmenu','gesturestart','dblclick','selectstart'].forEach(ev=>document.addEventListener(ev,e=>e.preventDefault()));document.addEventListener('touchmove',e=>e.preventDefault(),{passive:false});
 if(location.hash)show(location.hash.slice(1));
-</script></body></html>
+</script>
+</body></html>
